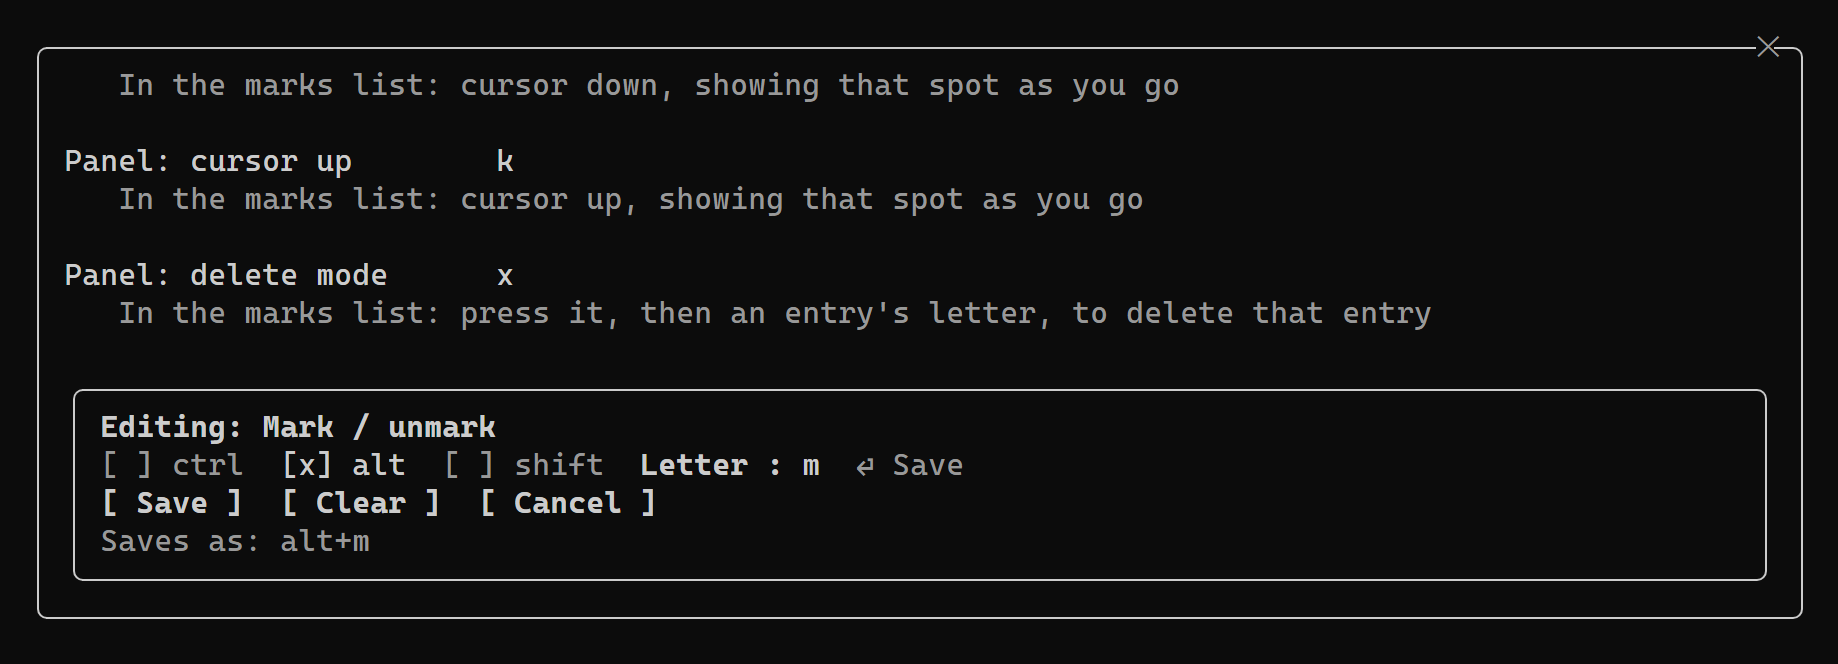
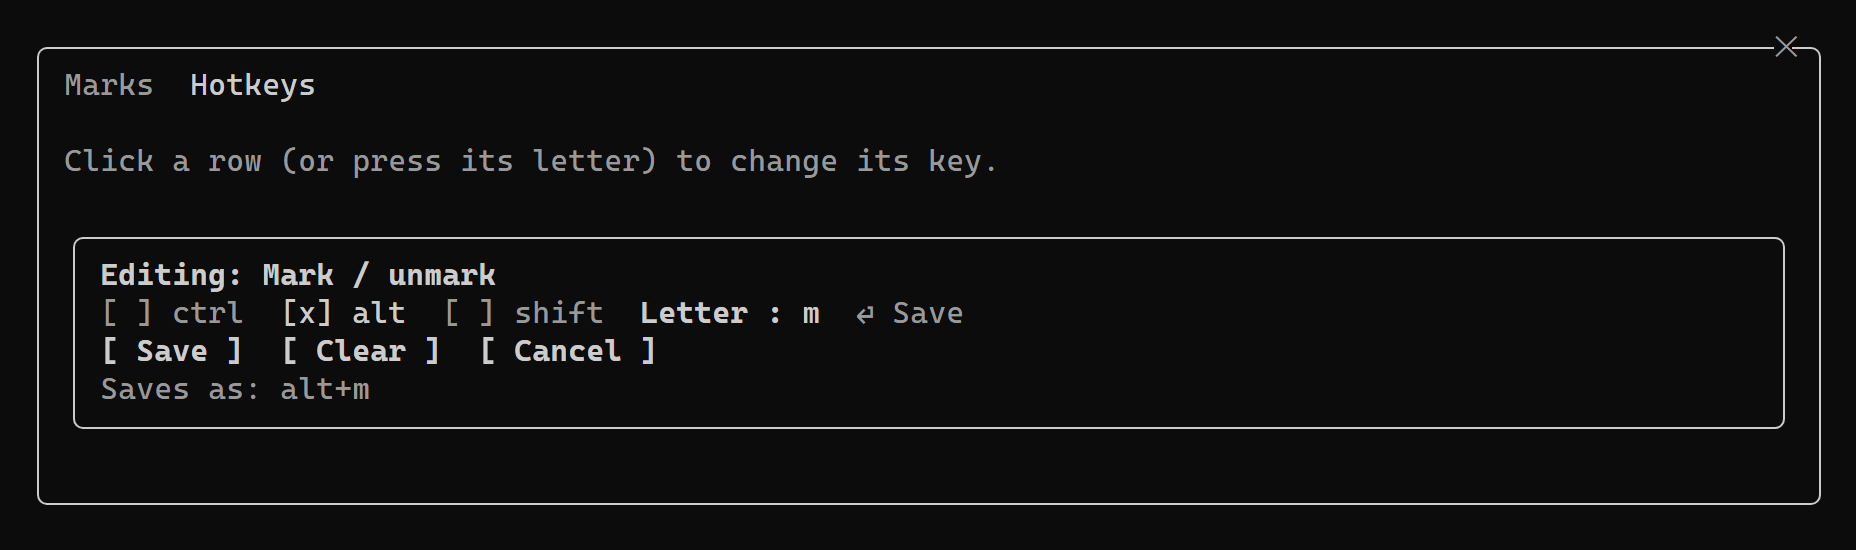
docs: retake the marks and hotkeys screenshots; the hotkeys editor opens above the list
Task: none

Claude-Session: https://claude.ai/code/session_01JJrqHQiHfzVFsDoyJiSavf

diff --git a/README.md b/README.md
@@ -12,7 +12,7 @@ Long Claude Code sessions scroll away fast: the one paragraph you needed is fort
 - **Mark.** Press your mark key and a letter appears over every message on screen. Press one to mark that message (`◆ mark`). A message already marked gets a red letter and *unmark?*: its letter takes the mark off. A click on `◆ mark` does as well.
 - **Jump.** Next and previous go through every mark and every highlighted block in conversation order. A mark lands at the top of its message, a highlight in the middle of the screen.
 - **Marks panel**, first tab. Every mark and highlight in one list, a letter each: press the letter to jump there. `j` / `k` move the cursor and show the conversation at that entry as you go; Enter or the letter jumps for good, Escape takes you back to where you opened the panel. `x` then a letter deletes one, `0` twice deletes them all; the mouse wheel and PageUp / PageDown scroll.
-- **Hotkeys**, second tab (`/mark keys` opens it directly): click a row (or press its letter) and an editor opens under the list: `ctrl` / `alt` / `shift` toggles and a one-letter field. Type the letter, Enter or *Save*, done. A combination Claude Code already uses is named first and taken over only on a second *Save*. Everything works from the keyboard too (Tab, Enter, typing).
+- **Hotkeys**, second tab (`/mark keys` opens it directly): click a row (or press its letter) and an editor opens above the list: `ctrl` / `alt` / `shift` toggles and a one-letter field. Type the letter, Enter or *Save*, done. A combination Claude Code already uses is named first and taken over only on a second *Save*. Everything works from the keyboard too (Tab, Enter, typing).
 - Marks and highlights come back with `claude --resume`. The interface speaks English or Chinese (`/mark lang zh`).
 
 ![Letters over the messages on screen](docs/mark.png)
